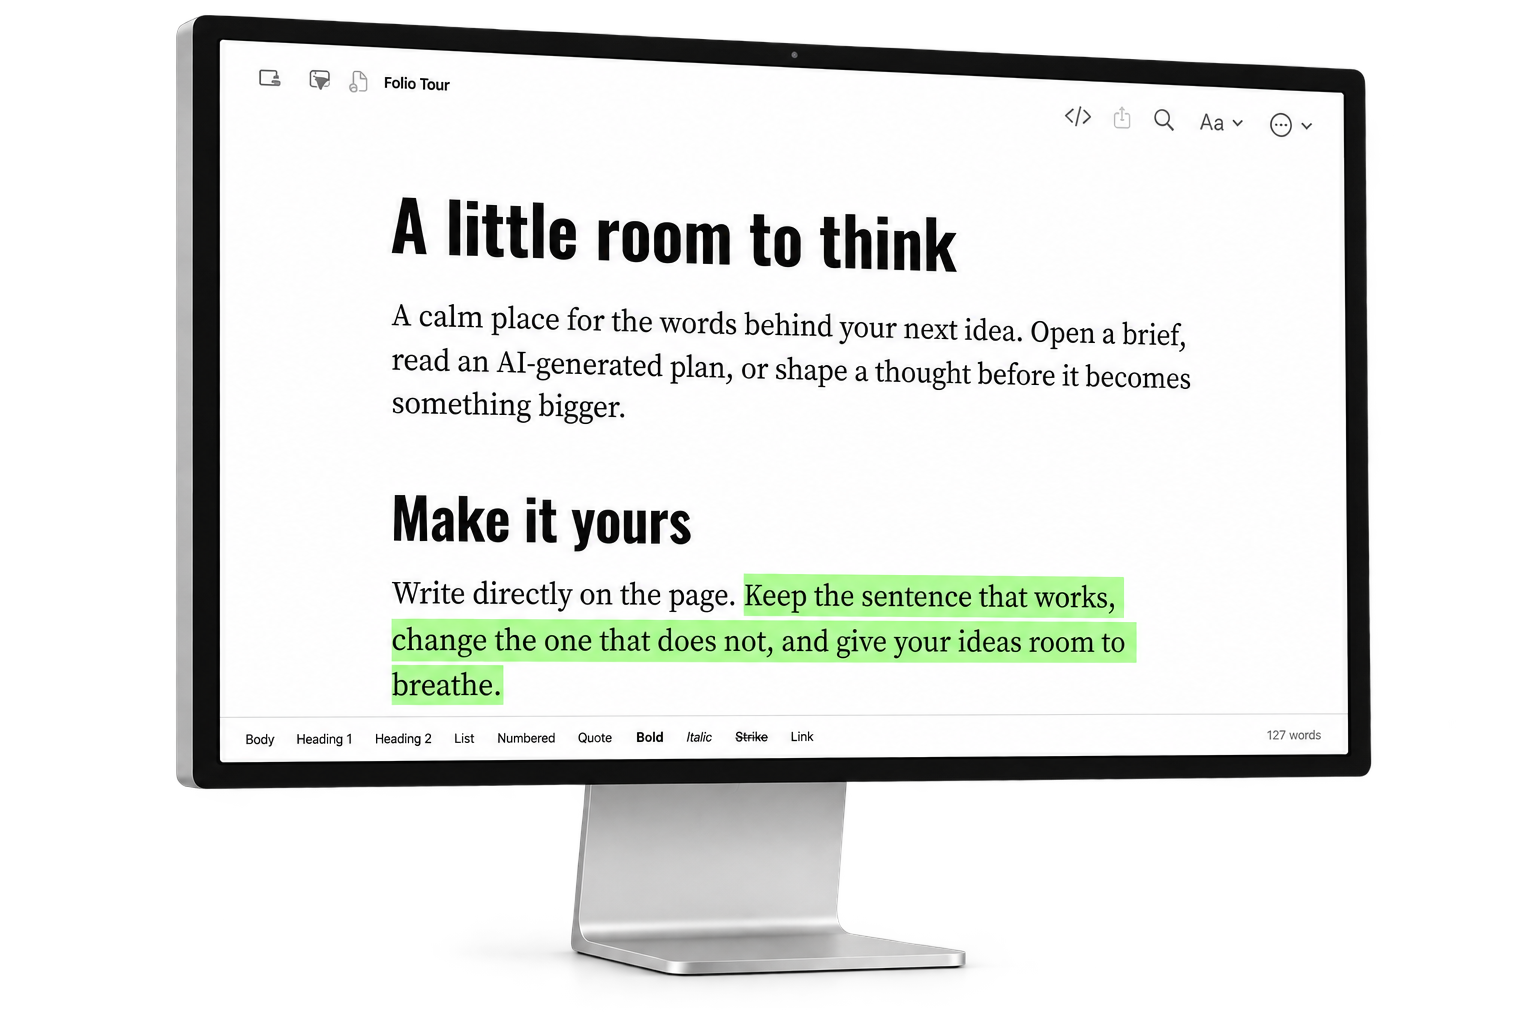
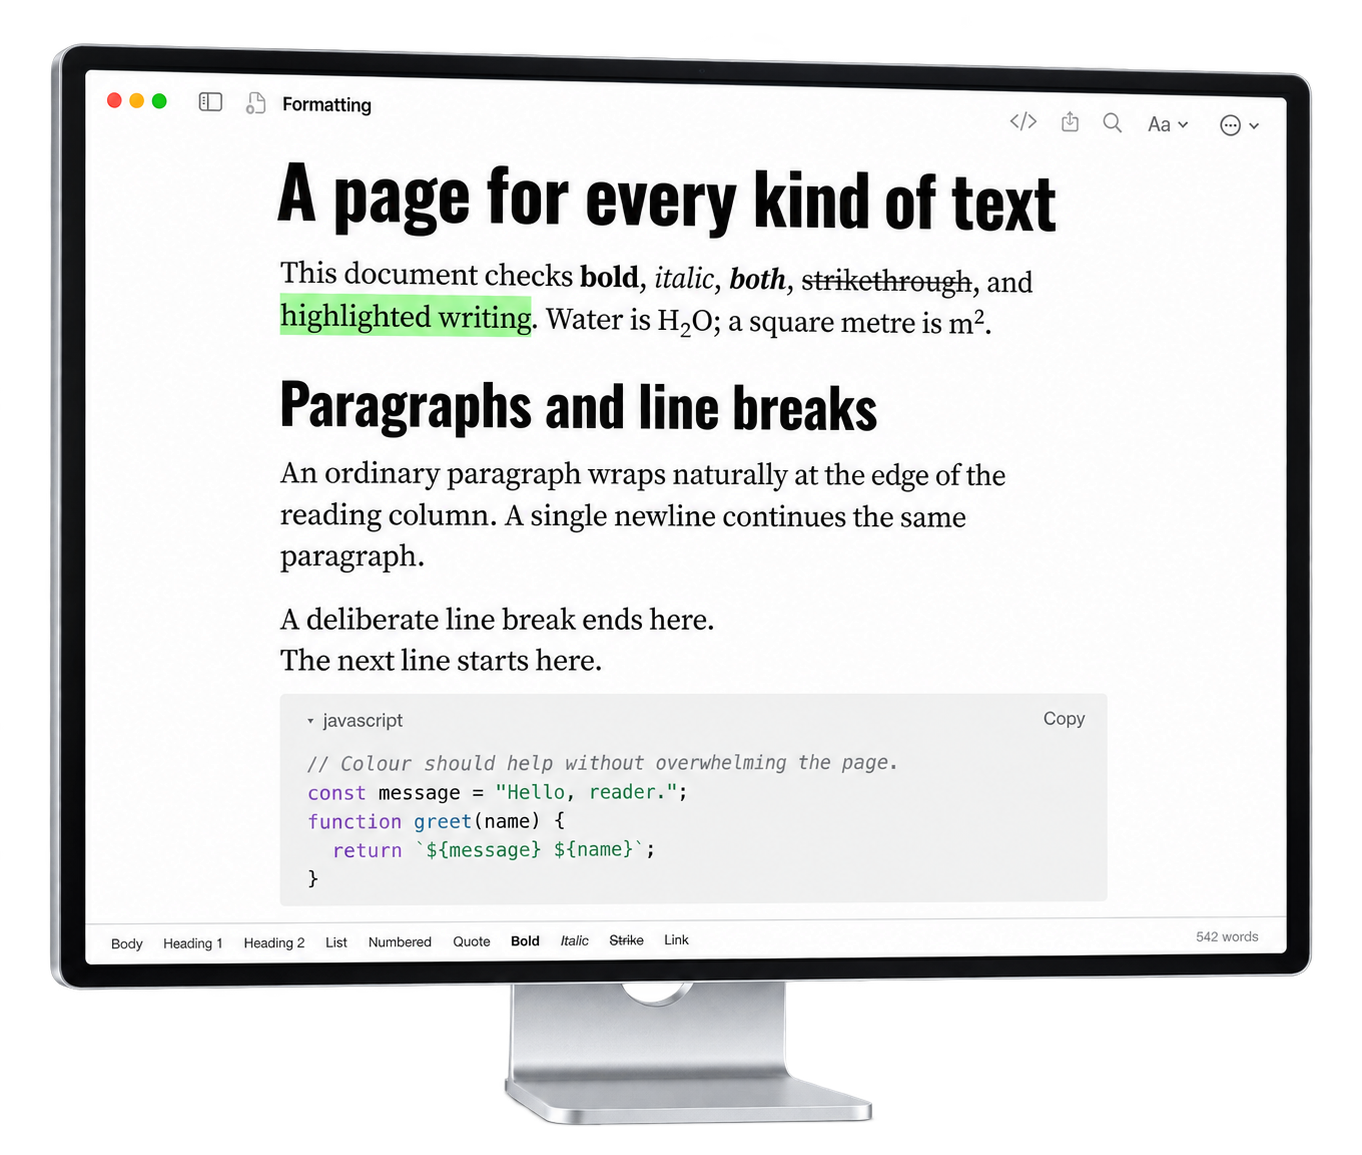
Use combined typography and code view in monitor packshot

Changed region(s): [[0.0308, 0.0, 0.9868, 1.0], [0.7709, 0.5938, 0.8018, 0.625], [0.6784, 0.0938, 0.7093, 0.125]]

diff --git a/README.md b/README.md
@@ -36,10 +36,6 @@ Beautiful typography. A clean page. Your own Markdown files.
 
 ## A closer look
 
-**Beautiful text. Clear code. One calm page.**
-
-![Folio typography and JavaScript rendering — composed from two app screenshots](docs/images/folio-formatting.png)
-
 **Keep your thinking beside the text.** Saved highlights and comments stay within reach in the Marked sidebar.
 
 ![Folio with a saved passage and review comment in the sidebar](docs/images/folio-highlights.png)
